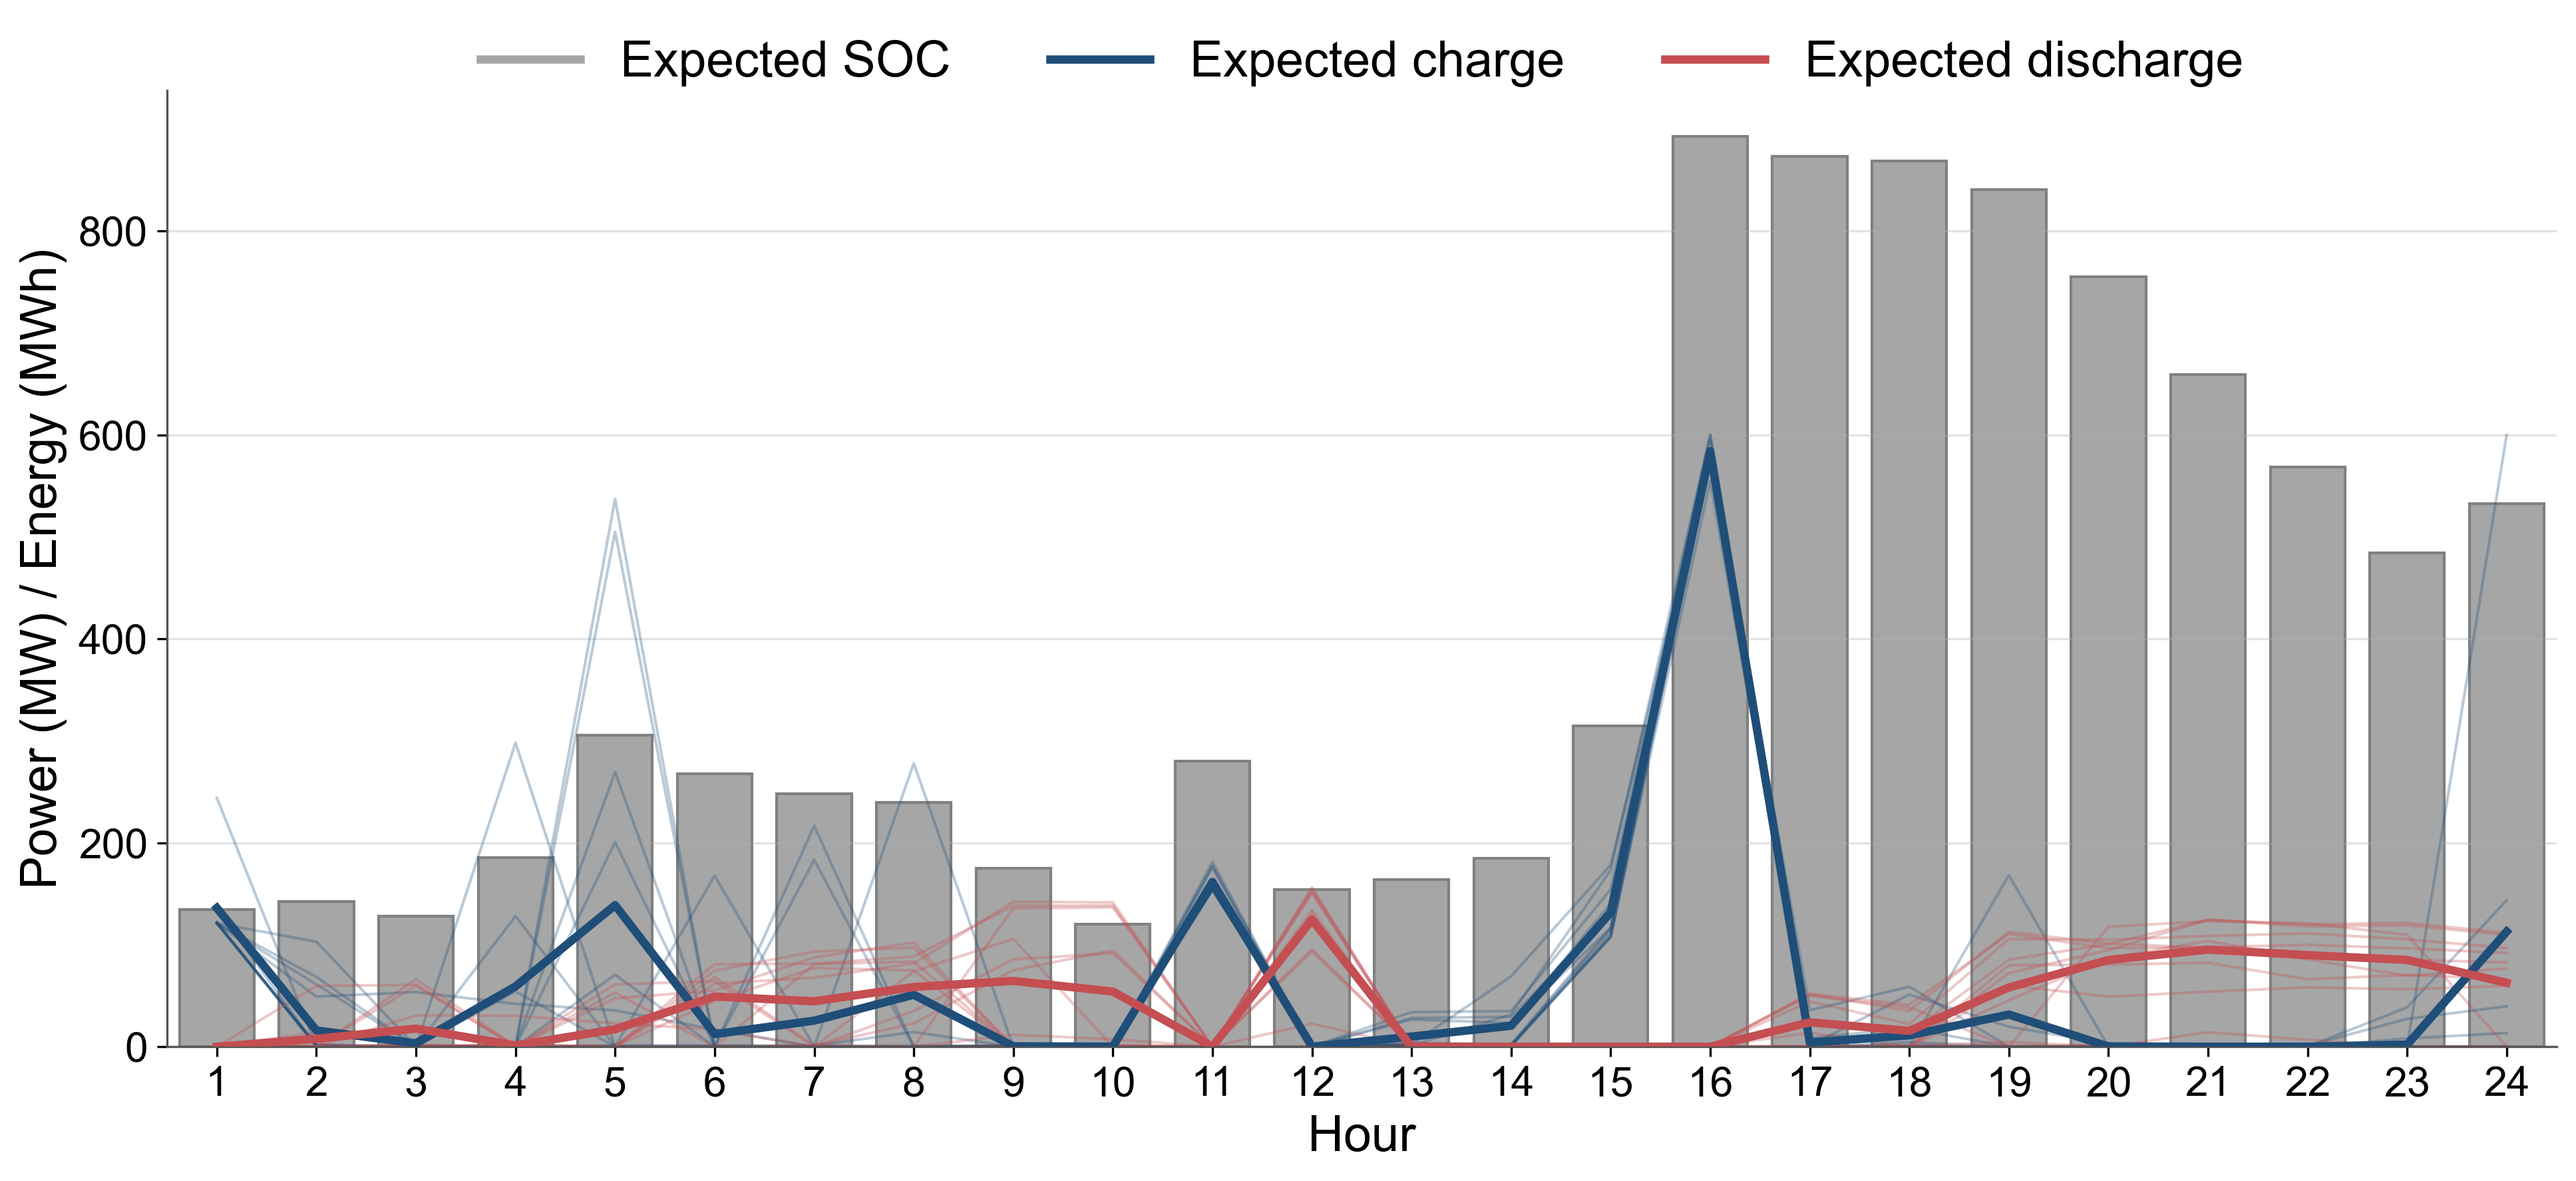
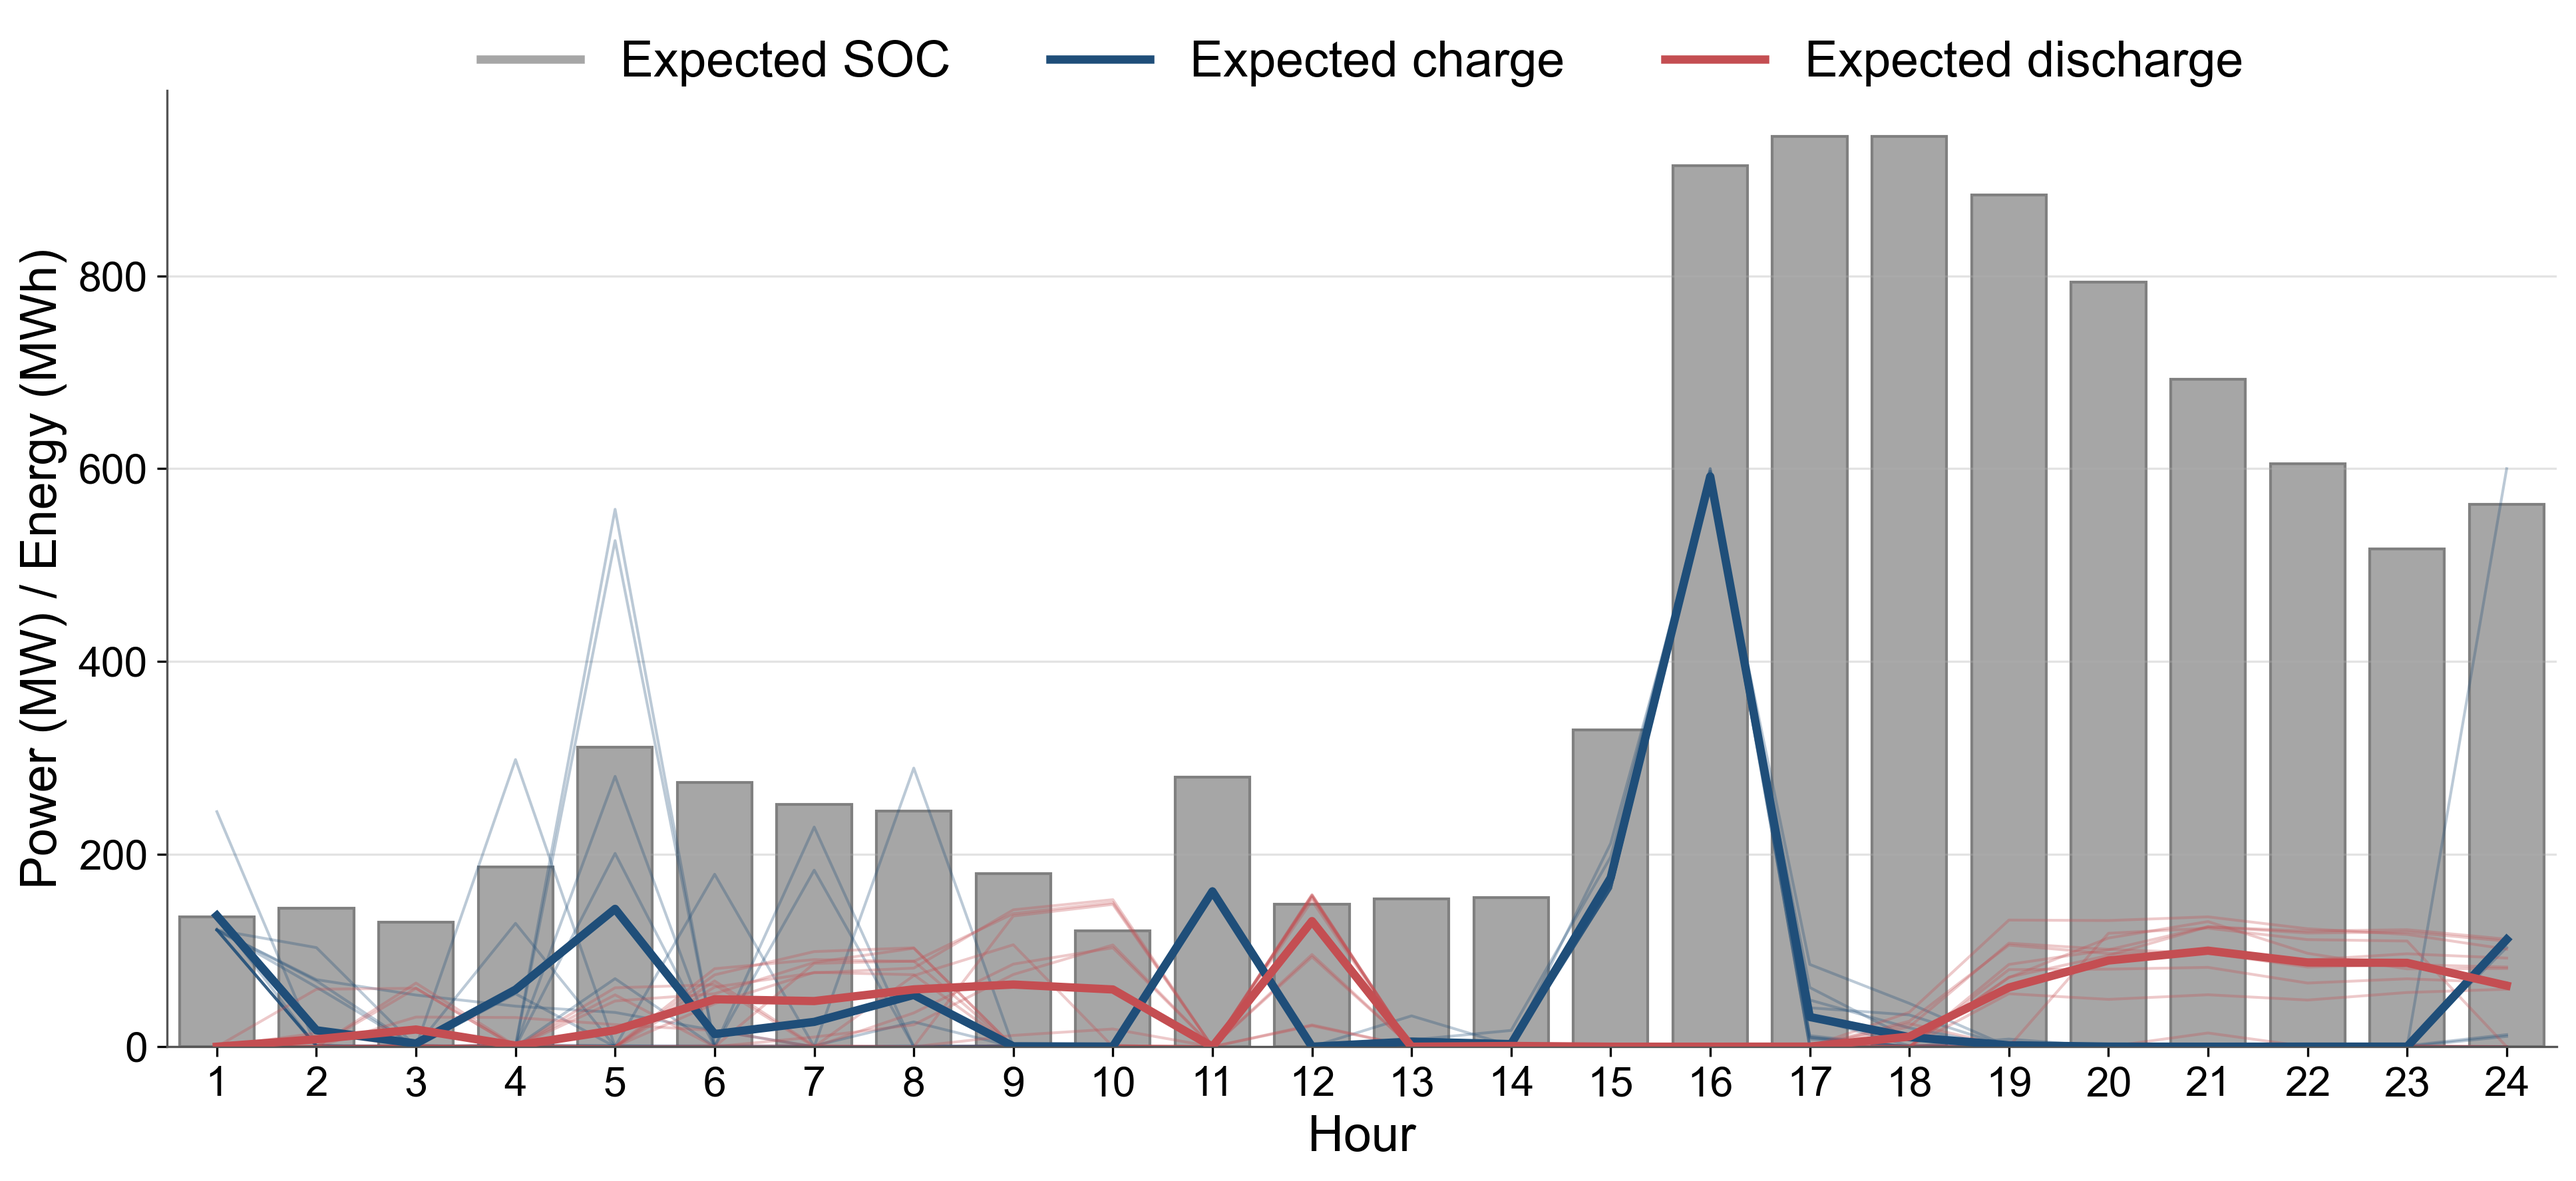
update plots

diff --git a/viz/run_plots.py b/viz/run_plots.py
@@ -17,7 +17,7 @@ STUDY_DAY = "2026-05-20"
 MODEL_NAMES = ["EH1", "EH2", "EH3", "EH4"]
 
 # Elementos internos a validar de UN modelo concreto (storage, HP...)
-SINGLE_MODEL_TO_PLOT = "EH4"
+SINGLE_MODEL_TO_PLOT = "EH3"
 SINGLE_MODEL_FIGURES = ["ESS", "EHP"]              # -> añade "EHP" cuando quieras validarlo también
 
 # Elementos que sí tiene sentido comparar entre modelos
